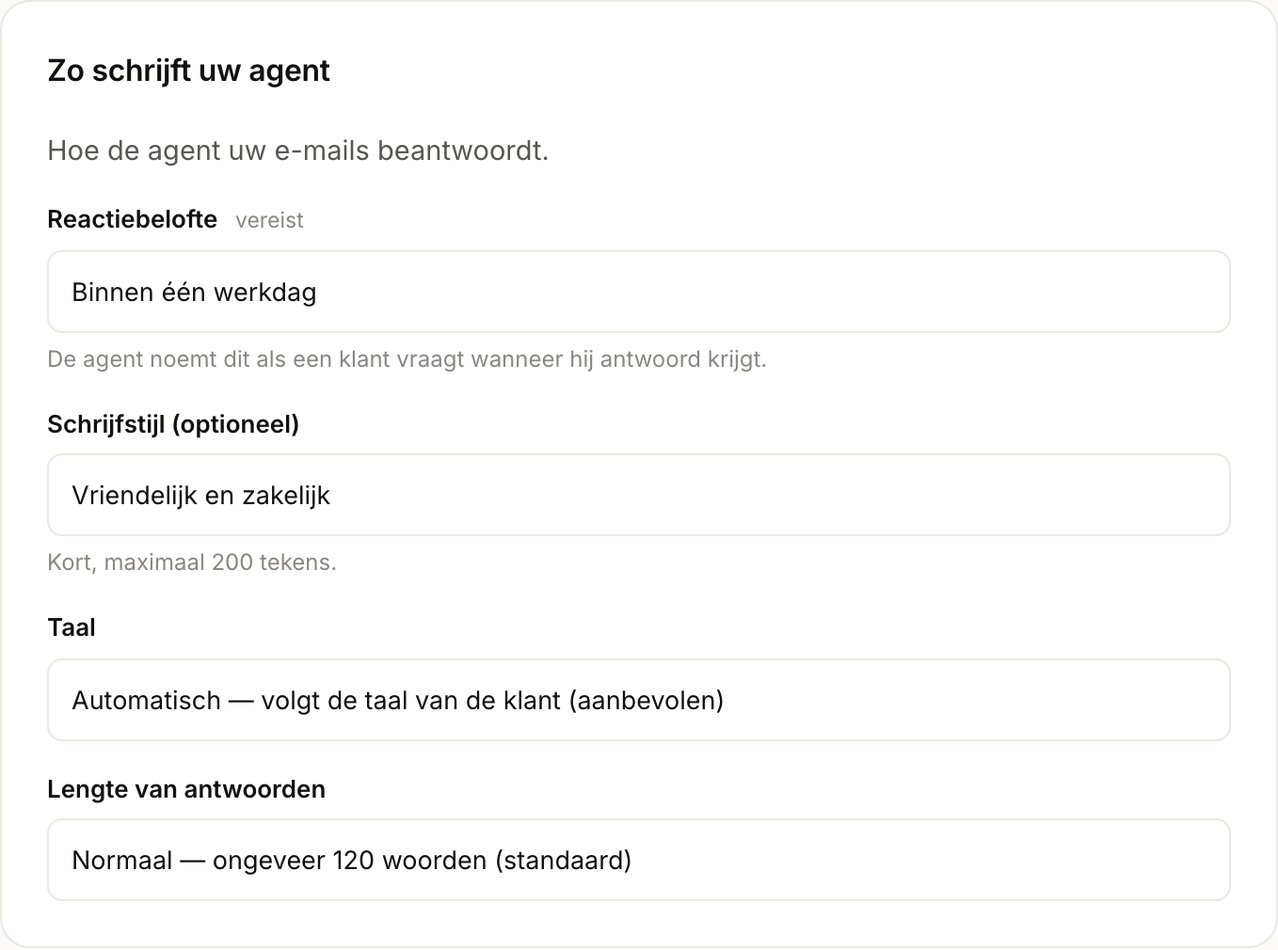
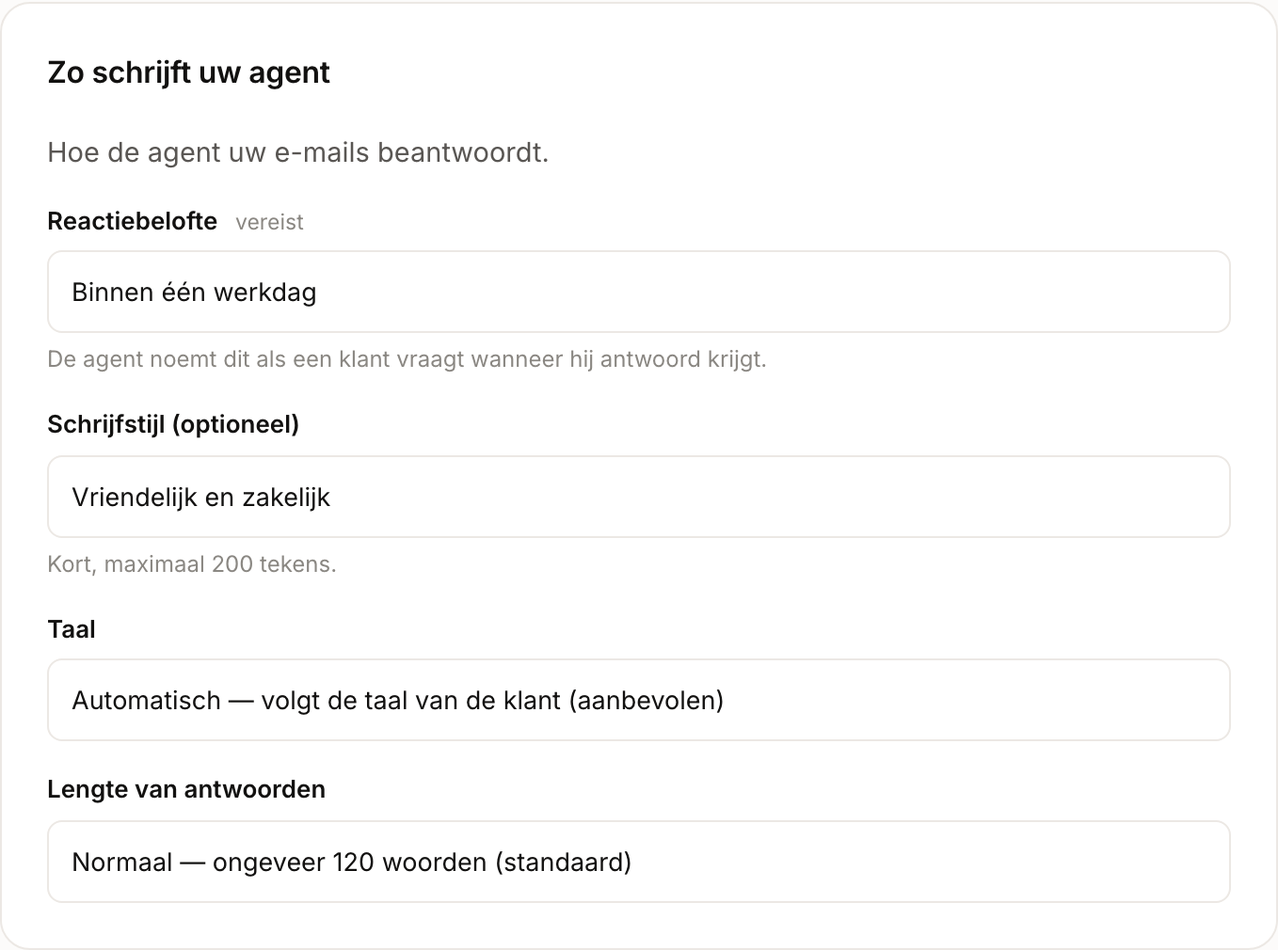
Docs: E-mail volgens de live pagina (instellingen in de setup, Zelflerend als badge), aanspreekvorm, branche, gesprekken
De publicatie van 15:28 beschreef de e-mailinstellingen nog als kaarten op
de pagina E-mail, terwijl 801cf5e (al live) ze naar Setup › Instellingen
had verplaatst. Opnieuw gemeten tegen dashboard 4dcae41:
- Pagina E-mail: Instructies, Deze maand en E-mails, met de twee meldingen
  (mailbox niet meer gekoppeld, categorie komt in aanmerking).
- Zelflerend: label naast Live dat de kaart opent.
- Setup › Instellingen › E-mail: Zo schrijft uw agent, Sorteerregels,
  Automatisch versturen, Urgente meldingen, Geblokkeerde afzenders.
  Ontkoppelen zit in de stap Mailbox koppelen.
- Aanspreekvorm in Begroeting en stem.
- Instructies alleen op de kanaalpagina's.
- Branche vereist, met wat de agent per soort gesprek doet.
- De antwoordtest alleen op Live → E-mail.
- Gesprekken met het menu Periode en tabs.
- E-mailadres voor facturen in het profiel.

Negen schermafbeeldingen opnieuw, met ?v=20261021b.

diff --git a/docs/agent-email-triage.html b/docs/agent-email-triage.html
@@ -172,14 +172,17 @@
 </ul>
 
 <div class="docs-media docs-media--shot">
-<a href="../assets/docs/agent-email-triage-8-schrijven.webp?v=20261021" target="_blank" rel="noopener"><img src="../assets/docs/agent-email-triage-8-schrijven.webp?v=20261021" alt="De kaart Zo schrijft uw agent met Reactiebelofte, Schrijfstijl, Taal en Lengte van antwoorden" width="679" height="505" loading="lazy" /></a>
+<a href="../assets/docs/agent-email-triage-8-schrijven.webp?v=20261021b" target="_blank" rel="noopener"><img src="../assets/docs/agent-email-triage-8-schrijven.webp?v=20261021b" alt="De kaart Zo schrijft uw agent met Reactiebelofte, Schrijfstijl, Taal en Lengte van antwoorden" width="679" height="505" loading="lazy" /></a>
 </div>
-<p class="docs-media-caption">De kaart <strong>Zo schrijft uw agent</strong>. Dezelfde kaart staat later op de pagina <strong>E-mail</strong>.</p>
+<p class="docs-media-caption">De kaart <strong>Zo schrijft uw agent</strong> in de stap <strong>Instellingen</strong>.</p>
 
 <p>
-  Hoe de agent klanten aanspreekt (je of u) en welke onderwerpen hij nooit bespreekt, stelt u in bij
-  <a href="kennis-bedrijfsprofiel#bedrijfsprofiel">Wat uw medewerker weet</a>. Dat geldt voor e-mail en telefoon samen.
-  Onder de kaart staat <strong>Instructies</strong>: vaste afspraken die de agent altijd volgt, bovenop de standaard regels.
+  Of de agent klanten met je of u aanspreekt, kiest u bij <strong>Aanspreekvorm</strong>. Heeft u ook het kanaal
+  Telefoon, dan staat die keuze onder <strong>Telefoon</strong> in de kaart <strong>Begroeting en stem</strong>, anders in
+  deze kaart. Het geldt voor e-mail en telefoon samen, net als de onderwerpen die de agent nooit bespreekt (bij
+  <a href="kennis-bedrijfsprofiel#bedrijfsprofiel">Wat uw medewerker weet</a>). Onder deze kaart staan ook
+  <strong>Sorteerregels</strong>, <strong>Automatisch versturen</strong>, <strong>Urgente meldingen</strong> en
+  <strong>Geblokkeerde afzenders</strong>. Zie <a href="#instellingen">hieronder</a>.
 </p>
 
 <h2 id="testen">Testen op uw eigen e-mail</h2>
@@ -268,11 +271,56 @@
 <li>Elke verwerkte e-mail kost 1 credit. Zie <a href="tegoed-en-credits">Tegoed en credits</a>.</li>
 </ul>
 
+<h2 id="pagina">De pagina E-mail</h2>
+<p>
+  Na het aanzetten ziet u via <strong>Agent</strong> → <strong>E-mail</strong> wat de agent doet. Bovenaan staan
+  <strong>Instructies</strong>: vaste afspraken die de agent altijd volgt, bovenop de standaard regels. Daaronder
+  <strong>Deze maand</strong>, met het aantal verwerkte e-mails, concepten, leads en urgente e-mails, en
+  <strong>E-mails</strong>: per e-mail wat de agent ermee deed, met bovenaan een keuze voor de periode.
+</p>
+<p>
+  Soms staat er bovenaan een melding. <strong>De mailbox is niet meer gekoppeld</strong> betekent dat de agent geen
+  e-mail leest tot u opnieuw koppelt: klik op <strong>Opnieuw koppelen</strong>. Komt een categorie in aanmerking voor
+  automatisch versturen, dan ziet u dat ook hier, met <strong>Bekijken</strong>.
+</p>
+
+<h2 id="zelflerend">Zelflerend</h2>
+<p>
+  Met <strong>Zelflerend</strong> leest Mowi mee met e-mails die u zelf beantwoordt. Daaruit stelt Mowi vragen met
+  antwoorden voor. U beslist wat de agent overneemt.
+</p>
+<p>
+  Op de pagina <strong>E-mail</strong> staat naast <strong>Live</strong> het label <strong>Zelflerend</strong>, met een
+  percentage als het aan staat, of <strong>uit</strong>. Het percentage geeft aan hoe ver uw agent is met zelf leren. Een
+  stip betekent dat er voorstellen op u wachten. Klik op het label: de kaart <strong>Zelflerend</strong> opent bovenaan de
+  pagina, met sinds wanneer het aan staat, hoeveel beantwoorde e-mails Mowi bekeek en hoeveel voorstellen wachten.
+</p>
+<ul>
+<li><strong>Aanzetten</strong>: klik op <strong>Aanzetten</strong> en bevestig in het venster. Mowi kijkt dan eerst naar de
+  afgelopen 30 dagen, daarna elke dag naar nieuwe antwoorden zolang de agent live staat.</li>
+<li><strong>Voorstellen bekijken</strong>: klik bij <strong>voorstellen wachten op u</strong> op <strong>Bekijken</strong>.
+  Neem een voorstel over, pas het aan of sla het over. Wat u overneemt, staat daarna bij uw vragen en antwoorden.</li>
+<li><strong>Uitzetten</strong>: klik op <strong>Uitzetten</strong> en bevestig. Mowi leest dan niet meer mee. Wat u heeft
+  overgenomen, blijft staan.</li>
+</ul>
+
+<div class="docs-media docs-media--shot">
+<a href="../assets/docs/agent-email-triage-9-zelflerend.webp?v=20261021b" target="_blank" rel="noopener"><img src="../assets/docs/agent-email-triage-9-zelflerend.webp?v=20261021b" alt="De pagina E-mail met naast Live het label Zelflerend · 54 procent, en daaronder de geopende kaart Zelflerend met de wachtende voorstellen en de knop Uitzetten" width="959" height="399" loading="lazy" /></a>
+</div>
+<p class="docs-media-caption">Het label <strong>Zelflerend</strong> naast <strong>Live</strong>, en de kaart die het opent.</p>
+
+<div class="docs-callout docs-callout-note">
+<svg width="16" height="16" viewBox="0 0 24 24" fill="none" stroke="currentColor" stroke-width="1.8" stroke-linecap="round" stroke-linejoin="round"><circle cx="12" cy="12" r="8.5"/><path d="M12 11v5"/><circle cx="12" cy="8" r=".4" fill="currentColor"/></svg>
+<p>Mowi leert alleen van e-mails die u zelf beantwoord heeft. Staat er <strong>Nog geen beantwoorde e-mails gevonden</strong>,
+  dan stonden er in uw verzonden e-mail nog geen antwoorden op vragen van klanten.</p>
+</div>
+
 <h2 id="instellingen">Sorteerregels, meldingen en automatisch versturen</h2>
 <p>
-  Na het aanzetten vindt u alle instellingen via <strong>Agent</strong> → <strong>E-mail</strong>. Bovenaan staan
-  <strong>Instructies</strong> en <strong>Deze maand</strong>, met het aantal verwerkte e-mails, concepten, leads en
-  urgente e-mails van deze maand. Daaronder staan <strong>Zo schrijft uw agent</strong> en de kaarten hieronder.
+  De instellingen staan in de setup. Klik op de pagina <strong>E-mail</strong> rechtsboven op <strong>Meer acties</strong>
+  en daarna op <strong>Instellingen</strong>. Onder <strong>E-mail</strong> staan <strong>Zo schrijft uw agent</strong>,
+  <strong>Sorteerregels</strong>, <strong>Automatisch versturen</strong>, <strong>Urgente meldingen</strong> en
+  <strong>Geblokkeerde afzenders</strong>.
 </p>
 
 <h3>Sorteerregels</h3>
@@ -284,7 +332,7 @@
 </p>
 
 <div class="docs-media docs-media--shot">
-<a href="../assets/docs/agent-email-triage-5-sorteerregels.webp?v=20261021" target="_blank" rel="noopener"><img src="../assets/docs/agent-email-triage-5-sorteerregels.webp?v=20261021" alt="De kaart Sorteerregels met de categorieën Leads, Klantvragen, Facturen, Nieuwsbrieven en Overig, elk met een mapnaam" width="959" height="792" loading="lazy" /></a>
+<a href="../assets/docs/agent-email-triage-5-sorteerregels.webp?v=20261021b" target="_blank" rel="noopener"><img src="../assets/docs/agent-email-triage-5-sorteerregels.webp?v=20261021b" alt="De kaart Sorteerregels met de categorieën Leads, Klantvragen, Facturen, Nieuwsbrieven en Overig, elk met een mapnaam" width="679" height="815" loading="lazy" /></a>
 </div>
 <p class="docs-media-caption">De sorteerregels, met per categorie de map.</p>
 
@@ -296,7 +344,7 @@
 </p>
 
 <div class="docs-media docs-media--shot">
-<a href="../assets/docs/agent-email-triage-7-urgent.webp?v=20261021" target="_blank" rel="noopener"><img src="../assets/docs/agent-email-triage-7-urgent.webp?v=20261021" alt="De kaart Urgente meldingen met Urgent — klachten en Urgent — leads, elk met een veld Ontvangers" width="959" height="494" loading="lazy" /></a>
+<a href="../assets/docs/agent-email-triage-7-urgent.webp?v=20261021b" target="_blank" rel="noopener"><img src="../assets/docs/agent-email-triage-7-urgent.webp?v=20261021b" alt="De kaart Urgente meldingen met Urgent — klachten en Urgent — leads, elk met een veld Ontvangers" width="679" height="494" loading="lazy" /></a>
 </div>
 <p class="docs-media-caption">De kaart <strong>Urgente meldingen</strong>.</p>
 
@@ -319,35 +367,9 @@
 </p>
 
 <div class="docs-media docs-media--shot">
-<a href="../assets/docs/agent-email-triage-6-automatisch.webp?v=20261021" target="_blank" rel="noopener"><img src="../assets/docs/agent-email-triage-6-automatisch.webp?v=20261021" alt="De kaart Automatisch versturen: Leads Vergrendeld, Klantvragen Ontgrendeld met de knop Automatisch versturen aanzetten" width="959" height="347" loading="lazy" /></a>
+<a href="../assets/docs/agent-email-triage-6-automatisch.webp?v=20261021b" target="_blank" rel="noopener"><img src="../assets/docs/agent-email-triage-6-automatisch.webp?v=20261021b" alt="De kaart Automatisch versturen: Leads Vergrendeld, Klantvragen Ontgrendeld met de knop Automatisch versturen aanzetten" width="679" height="347" loading="lazy" /></a>
 </div>
 <p class="docs-media-caption">Een categorie begint als <strong>Vergrendeld</strong>. Na het ontgrendelen zet u het versturen zelf aan.</p>
-
-<h3 id="zelflerend">Zelflerend</h3>
-<p>
-  Met <strong>Zelflerend</strong> leest Mowi mee met e-mails die u zelf beantwoordt. Daaruit stelt Mowi vragen met
-  antwoorden voor. U beslist wat de agent overneemt. De kaart laat zien sinds wanneer het aan staat, hoeveel beantwoorde
-  e-mails Mowi bekeek en hoeveel voorstellen op u wachten.
-</p>
-<ul>
-<li><strong>Aanzetten</strong>: klik op <strong>Aanzetten</strong> en bevestig in het venster. Mowi kijkt dan eerst naar de
-  afgelopen 30 dagen, daarna elke dag naar nieuwe antwoorden zolang de agent live staat.</li>
-<li><strong>Voorstellen bekijken</strong>: klik bij <strong>voorstellen wachten op u</strong> op <strong>Bekijken</strong>.
-  Neem een voorstel over, pas het aan of sla het over. Wat u overneemt, staat daarna bij uw vragen en antwoorden.</li>
-<li><strong>Uitzetten</strong>: klik op <strong>Uitzetten</strong> en bevestig. Mowi leest dan niet meer mee. Wat u heeft
-  overgenomen, blijft staan.</li>
-</ul>
-
-<div class="docs-media docs-media--shot">
-<a href="../assets/docs/agent-email-triage-9-zelflerend.webp?v=20261021" target="_blank" rel="noopener"><img src="../assets/docs/agent-email-triage-9-zelflerend.webp?v=20261021" alt="De kaart Zelflerend met het label Aan, sinds wanneer, het aantal bekeken e-mails, de wachtende voorstellen en de knop Uitzetten" width="959" height="309" loading="lazy" /></a>
-</div>
-<p class="docs-media-caption">De kaart <strong>Zelflerend</strong>, met de voorstellen die op u wachten.</p>
-
-<div class="docs-callout docs-callout-note">
-<svg width="16" height="16" viewBox="0 0 24 24" fill="none" stroke="currentColor" stroke-width="1.8" stroke-linecap="round" stroke-linejoin="round"><circle cx="12" cy="12" r="8.5"/><path d="M12 11v5"/><circle cx="12" cy="8" r=".4" fill="currentColor"/></svg>
-<p>Mowi leert alleen van e-mails die u zelf beantwoord heeft. Staat er <strong>Nog geen beantwoorde e-mails gevonden</strong>,
-  dan stonden er in uw verzonden e-mail nog geen antwoorden op vragen van klanten.</p>
-</div>
 
 <h3>Geblokkeerde afzenders</h3>
 <p>
@@ -359,9 +381,9 @@
 <p>
   Klik rechtsboven op de pagina <strong>E-mail</strong> op <strong>Meer acties</strong>, daarna op <strong>Pauzeer</strong>, en
   bevestig met <strong>Pauzeren</strong>. Er worden dan geen e-mails meer verwerkt tot u de agent weer aanzet met
-  <strong>Activeer</strong>, in hetzelfde menu. Onder
-  <strong>Mailboxkoppeling</strong> staat <strong>Koppeling verwijderen</strong>: dat pauzeert de agent totdat u opnieuw
-  verbindt.
+  <strong>Activeer</strong>, in hetzelfde menu. De mailbox ontkoppelt u in de setupstap <strong>Mailbox koppelen</strong>:
+  onder <strong>Mailboxkoppeling</strong> staat <strong>Koppeling verwijderen</strong>. Dat pauzeert de agent totdat u
+  opnieuw verbindt.
 </p>
 
 <h2>Problemen oplossen</h2>

diff --git a/docs/kennis-bedrijfsprofiel.html b/docs/kennis-bedrijfsprofiel.html
@@ -99,22 +99,23 @@
 </p>
 
 <div class="docs-media docs-media--shot">
-<a href="../assets/docs/kennis-bedrijfsprofiel-2-profiel.webp?v=20261021" target="_blank" rel="noopener"><img src="../assets/docs/kennis-bedrijfsprofiel-2-profiel.webp?v=20261021" alt="De kaart Bedrijfsprofiel met Branche, Diensten, Openingstijden, Werkgebied, Wat u niet aanbiedt, de aanspreekvorm en de onderwerpen die uw medewerker nooit bespreekt" width="679" height="1246" loading="lazy" /></a>
+<a href="../assets/docs/kennis-bedrijfsprofiel-2-profiel.webp?v=20261021b" target="_blank" rel="noopener"><img src="../assets/docs/kennis-bedrijfsprofiel-2-profiel.webp?v=20261021b" alt="De kaart Bedrijfsprofiel met Branche en wat de agent per soort gesprek doet, Diensten, Openingstijden, Werkgebied, Wat u niet aanbiedt en de onderwerpen die uw medewerker nooit bespreekt" width="679" height="1364" loading="lazy" /></a>
 </div>
-<p class="docs-media-caption">Het bedrijfsprofiel. <strong>Diensten</strong> is vereist.</p>
+<p class="docs-media-caption">Het bedrijfsprofiel. <strong>Branche</strong> en <strong>Diensten</strong> zijn vereist.</p>
 
 <ul>
-<li><strong>Branche</strong>: Mowi stemt de agent hierop af, bijvoorbeeld wat hij aan de telefoon vraagt. Wat u zelf invult, blijft staan.</li>
+<li><strong>Branche</strong> (vereist): Mowi stemt de agent hierop af, bijvoorbeeld wat hij aan de telefoon vraagt. Na de
+  websitescan staat er vaak al een branche klaar. Kies zo nodig een andere, of <strong>Andere branche</strong>. Onder
+  <strong>Aan de telefoon</strong> ziet u per soort gesprek wat de agent doet. Wat u zelf invult, blijft staan.</li>
 <li><strong>Diensten</strong> (vereist): wat u levert, in een paar zinnen. Zo weet de agent waar hij wel en niet over kan antwoorden.</li>
 <li><strong>Openingstijden</strong>: één regel per dag of dagdeel. Daarmee weet de agent wanneer hij een terugbelverzoek aanneemt.</li>
 <li><strong>Werkgebied</strong>: alleen nodig als u op locatie werkt. Eén gebied per regel.</li>
 <li><strong>Wat u niet aanbiedt</strong>: één dienst per regel. Zo belooft de agent geen werk dat u niet doet.</li>
 </ul>
 <p>
-  Onder <strong>AANSPREEKVORM EN GRENZEN</strong> kiest u bij <strong>Aanspreekvorm</strong> voor <strong>Formeel ("u")</strong>
-  of <strong>Informeel ("je")</strong>. Zo spreekt uw medewerker klanten aan, aan de telefoon en in e-mails. Bij
-  <strong>Onderwerpen die uw medewerker nooit bespreekt</strong> zet u één onderwerp per regel, bijvoorbeeld prijsafspraken of
-  kortingen.
+  Bij <strong>Onderwerpen die uw medewerker nooit bespreekt</strong> zet u één onderwerp per regel, bijvoorbeeld
+  prijsafspraken of kortingen. Dat geldt aan de telefoon en in e-mails. Of uw medewerker klanten met je of u aanspreekt,
+  kiest u in de stap <strong>Instellingen</strong>, bij <strong>Aanspreekvorm</strong>.
 </p>
 <p>
   Hoe de agent e-mails schrijft, met de reactiebelofte, de schrijfstijl, de taal en de lengte, stelt u in bij het kanaal
@@ -160,9 +161,10 @@
 
 <h2 id="testen">Testen of een antwoord klopt</h2>
 <p>
-  Typ onder <strong>Stel uw agent een vraag</strong> een vraag zoals een klant hem zou stellen en klik op
-  <strong>Test</strong>. U ziet meteen wat de agent zou antwoorden. Er wordt niets verstuurd. Voor de telefoon test u het best
-  met een gesprek in de browser. Zie <a href="telefoon-instellen#testen">Telefoon instellen</a>.
+  Heeft u het kanaal E-mail? Typ dan in de setup onder <strong>Live</strong> → <strong>E-mail</strong>, bij
+  <strong>Stel uw agent een vraag</strong>, wat een klant zou vragen en klik op <strong>Test</strong>. U ziet meteen het
+  concept dat de agent zou schrijven. Er wordt niets verstuurd. Voor de telefoon test u met een gesprek in de browser.
+  Zie <a href="telefoon-instellen#testen">Telefoon instellen</a>.
 </p>
 
 <h2 id="offertes">Offerteaanvragen</h2>

diff --git a/docs/telefoon-gesprekken.html b/docs/telefoon-gesprekken.html
@@ -63,9 +63,9 @@
 <div class="docs-step-body">
 <h3>Open Telefoon</h3>
 <p>Klik in de zijbalk op <strong>Agent</strong> en daarna op <strong>Telefoon</strong>.</p>
-<p class="docs-muted">U ziet nu bovenaan uw <strong>Instructies</strong> in één regel, met <strong>Bewerken</strong>.
-  Daaronder staat <strong>Deze maand</strong>, met het aantal gesprekken, minuten, vastgelegde leads en doorverbonden
-  gesprekken, en daarna de kaart <strong>Gesprekken</strong>.</p>
+<p class="docs-muted">U ziet nu bovenaan uw <strong>Instructies</strong>. Daaronder staat <strong>Deze maand</strong>,
+  met het aantal gesprekken, minuten, vastgelegde leads en doorverbonden gesprekken, en daarna de kaart
+  <strong>Gesprekken</strong>.</p>
 </div>
 </div>
 </div>
@@ -86,7 +86,7 @@
 </ul>
 
 <div class="docs-media docs-media--shot">
-<a href="../assets/docs/telefoon-gesprekken-2-lijst.webp?v=20261021" target="_blank" rel="noopener"><img src="../assets/docs/telefoon-gesprekken-2-lijst.webp?v=20261021" alt="De kaart Gesprekken met de periodes, de labels met hun aantal en drie gesprekken met label, duur, beller, Te doen en samenvatting" width="959" height="670" loading="lazy" /></a>
+<a href="../assets/docs/telefoon-gesprekken-2-lijst.webp?v=20261021b" target="_blank" rel="noopener"><img src="../assets/docs/telefoon-gesprekken-2-lijst.webp?v=20261021b" alt="De kaart Gesprekken met de knop Periode, de labels met hun aantal en drie gesprekken met label, duur, beller, Te doen en samenvatting" width="959" height="607" loading="lazy" /></a>
 </div>
 <p class="docs-media-caption">Drie gesprekken in de lijst. Het tweede vraagt aandacht.</p>
 
@@ -97,10 +97,11 @@
 
 <h3>Filteren</h3>
 <p>
-  Kies bovenaan de kaart <strong>Gesprekken</strong> voor <strong>Alles</strong>, <strong>Vandaag</strong>,
-  <strong>7 dagen</strong> of <strong>30 dagen</strong>. Daaronder staan de labels die in die periode voorkomen, met het
-  aantal gesprekken erbij. Klik bijvoorbeeld op <strong>Terugbelverzoek</strong> om alleen de gesprekken te zien waar u nog
-  iets mee moet. <strong>Vraagt aandacht</strong> staat altijd vooraan. Met <strong>Wis filters</strong> ziet u weer alles.
+  Klik rechtsboven in de kaart <strong>Gesprekken</strong> op <strong>Periode</strong> en kies <strong>Alles</strong>,
+  <strong>Vandaag</strong>, <strong>7 dagen</strong> of <strong>30 dagen</strong>. Daaronder staan de labels die in die
+  periode voorkomen, met het aantal gesprekken erbij. Klik bijvoorbeeld op <strong>Terugbelverzoek</strong> om alleen de
+  gesprekken te zien waar u nog iets mee moet. <strong>Vraagt aandacht</strong> staat altijd vooraan, en
+  <strong>Alles</strong> toont weer elk gesprek.
 </p>
 <p>
   Uw eigen testgesprekken in de browser staan onder <strong>Browsertest</strong>. Die tellen niet mee in de cijfers.
@@ -141,7 +142,7 @@
 </div>
 
 <div class="docs-media docs-media--shot">
-<a href="../assets/docs/telefoon-gesprekken-3-meer-acties.webp?v=20261021" target="_blank" rel="noopener"><img src="../assets/docs/telefoon-gesprekken-3-meer-acties.webp?v=20261021" alt="Het menu Meer acties op de pagina Telefoon met Instellingen en Pauzeer" width="880" height="250" loading="lazy" /></a>
+<a href="../assets/docs/telefoon-gesprekken-3-meer-acties.webp?v=20261021b" target="_blank" rel="noopener"><img src="../assets/docs/telefoon-gesprekken-3-meer-acties.webp?v=20261021b" alt="Het menu Meer acties op de pagina Telefoon met Instellingen en Pauzeer" width="880" height="250" loading="lazy" /></a>
 </div>
 <p class="docs-media-caption">Het menu <strong>Meer acties</strong>.</p>
 

diff --git a/docs/telefoon-instellen.html b/docs/telefoon-instellen.html
@@ -193,16 +193,16 @@
 <div class="docs-step">
 <span class="docs-step-num">3</span>
 <div class="docs-step-body">
-<h3>Controleer de stem</h3>
-<p>Onder <strong>Stem</strong> staat de stem die u koos. Klik op <strong>Wijzigen</strong> om een andere te kiezen.</p>
-<p class="docs-muted">Of de agent bellers met je of u aanspreekt, stelt u in bij <a href="kennis-bedrijfsprofiel#bedrijfsprofiel">Wat
-  uw medewerker weet</a>, onder <strong>Aanspreekvorm</strong>.</p>
+<h3>Kies de aanspreekvorm en controleer de stem</h3>
+<p>Kies bij <strong>Aanspreekvorm</strong> voor <strong>Formeel ("u")</strong> of <strong>Informeel ("je")</strong>. Onder
+  <strong>Stem</strong> staat de stem die u koos. Klik op <strong>Wijzigen</strong> om een andere te kiezen.</p>
+<p class="docs-muted">De aanspreekvorm geldt aan de telefoon en in e-mails.</p>
 </div>
 </div>
 </div>
 
 <div class="docs-media docs-media--shot">
-<a href="../assets/docs/telefoon-instellen-3-begroeting.webp?v=20261021" target="_blank" rel="noopener"><img src="../assets/docs/telefoon-instellen-3-begroeting.webp?v=20261021" alt="De kaart Begroeting en stem: de vaste begroeting, het veld Wat de agent daarna zegt en de gekozen stem" width="679" height="421" loading="lazy" /></a>
+<a href="../assets/docs/telefoon-instellen-3-begroeting.webp?v=20261021b" target="_blank" rel="noopener"><img src="../assets/docs/telefoon-instellen-3-begroeting.webp?v=20261021b" alt="De kaart Begroeting en stem: de vaste begroeting, het veld Wat de agent daarna zegt, de aanspreekvorm en de gekozen stem" width="679" height="529" loading="lazy" /></a>
 </div>
 <p class="docs-media-caption">De begroeting. De eerste zin is vast en kunt u niet wijzigen.</p>
 
@@ -286,10 +286,10 @@
 <p class="docs-media-caption">Meldingen: per e-mail na elk gesprek, of alleen in het dashboard.</p>
 
 <p>
-  Onder <strong>Instructies</strong> legt u vaste afspraken vast die de agent altijd volgt, bovenop de standaard
-  regels. Zet hier geen wachtwoorden of andere geheime gegevens in. Heeft u ook het kanaal E-mail, dan staan onder
-  <strong>E-mail</strong> op dezelfde stap de instellingen voor uw e-mails. Zie
-  <a href="agent-email-triage#schrijven">E-mail instellen</a>.
+  Heeft u ook het kanaal E-mail, dan staan onder <strong>E-mail</strong> op dezelfde stap de instellingen voor uw
+  e-mails. Zie <a href="agent-email-triage#schrijven">E-mail instellen</a>. Vaste afspraken die de agent altijd volgt,
+  legt u vast onder <strong>Instructies</strong>, bovenaan de pagina <strong>Telefoon</strong>. Zet daar geen
+  wachtwoorden of andere geheime gegevens in.
 </p>
 
 <h2 id="testen">Uw agent testen in de browser</h2>
@@ -359,7 +359,8 @@
 <h3>De agent zegt iets wat niet klopt</h3>
 <p>
   Uw agent antwoordt uit uw kennis. Pas de feiten aan bij <a href="kennis-bedrijfsprofiel">Wat uw agent weet</a>,
-  of leg een vaste afspraak vast onder <strong>Instructies</strong>. Test daarna opnieuw.
+  of leg een vaste afspraak vast onder <strong>Instructies</strong>, bovenaan de pagina <strong>Telefoon</strong>. Test
+  daarna opnieuw.
 </p>
 
 <h2>Volgende stappen</h2>

diff --git a/docs/eerste-agent-instellen.html b/docs/eerste-agent-instellen.html
@@ -87,12 +87,13 @@
 
 <h3>Instellen</h3>
 <ul>
-<li><strong>Wat uw medewerker weet</strong>: controleer wat de scan vond, vul <strong>Diensten</strong> in, kies de
-  <strong>Aanspreekvorm</strong> en zorg voor minimaal drie vragen met een antwoord. Zie
+<li><strong>Wat uw medewerker weet</strong>: controleer wat de scan vond, kies de <strong>Branche</strong>, vul
+  <strong>Diensten</strong> in en zorg voor minimaal drie vragen met een antwoord. Zie
   <a href="kennis-bedrijfsprofiel">Wat uw agent weet</a>.</li>
-<li><strong>Instellingen</strong>: voor Telefoon de begroeting en stem, wanneer de agent doorverbindt, wat hij buiten
-  openingstijden doet en hoe u meldingen krijgt. Voor E-mail de <strong>Reactiebelofte</strong> en hoe de agent schrijft.
-  Zie <a href="telefoon-instellen#instellingen">De instellingen nalopen</a> en
+<li><strong>Instellingen</strong>: voor Telefoon de begroeting, de aanspreekvorm en de stem, wanneer de agent doorverbindt,
+  wat hij buiten openingstijden doet en hoe u meldingen krijgt. Voor E-mail de <strong>Reactiebelofte</strong>, hoe de agent
+  schrijft, de sorteerregels en wie urgente meldingen krijgt. Zie
+  <a href="telefoon-instellen#instellingen">De instellingen nalopen</a> en
   <a href="agent-email-triage#schrijven">Instellen hoe de agent schrijft</a>.</li>
 </ul>
 

diff --git a/docs/faq-koppeling-werkt-niet.html b/docs/faq-koppeling-werkt-niet.html
@@ -93,9 +93,10 @@
 
 <h2>De mailbox</h2>
 <p>
-  Ga naar <strong>Agent</strong> → <strong>E-mail</strong> en kijk onder <strong>Mailboxkoppeling</strong>. Heeft u bij Microsoft of Google
-  de toegang van Mowi ingetrokken, of uw app-wachtwoord vervangen? Koppel de mailbox dan opnieuw via de setupstap
-  <strong>Mailbox koppelen</strong>. Zie <a href="agent-email-triage#mailbox">Uw mailbox koppelen</a>.
+  Ga naar <strong>Agent</strong> → <strong>E-mail</strong>. Staat er bovenaan <strong>De mailbox is niet meer gekoppeld</strong>,
+  of heeft u bij Microsoft of Google de toegang van Mowi ingetrokken of uw app-wachtwoord vervangen? Koppel de mailbox dan
+  opnieuw via <strong>Opnieuw koppelen</strong> of de setupstap <strong>Mailbox koppelen</strong>. Zie
+  <a href="agent-email-triage#mailbox">Uw mailbox koppelen</a>.
 </p>
 
 <h2>Per systeem</h2>

diff --git a/docs/faq-agent-voert-geen-taken-uit.html b/docs/faq-agent-voert-geen-taken-uit.html
@@ -127,8 +127,9 @@
 <span class="docs-step-num">1</span>
 <div class="docs-step-body">
 <h3>Controleer de mailboxkoppeling</h3>
-<p>Klik in de zijbalk op <strong>Agent</strong> en daarna op <strong>E-mail</strong>. Kijk onder <strong>Mailboxkoppeling</strong>.</p>
-<p class="docs-muted">Is de koppeling verwijderd, dan staat de agent op pauze tot u opnieuw verbindt. Zie
+<p>Klik in de zijbalk op <strong>Agent</strong> en daarna op <strong>E-mail</strong>. Staat er bovenaan <strong>De mailbox is
+  niet meer gekoppeld</strong>? Klik dan op <strong>Opnieuw koppelen</strong>.</p>
+<p class="docs-muted">Zonder gekoppelde mailbox leest de agent geen e-mail. Zie
   <a href="agent-email-triage#mailbox">Uw mailbox koppelen</a>.</p>
 </div>
 </div>

diff --git a/docs/pakketten-en-abonnement.html b/docs/pakketten-en-abonnement.html
@@ -138,6 +138,12 @@
   <strong>Facturen</strong>, met nummer, datum en bedrag. Klik op <strong>Download</strong> voor de factuur. Het bedrag op de factuur
   is inclusief btw.
 </p>
+<p>
+  Facturen en betaalberichten gaan naar het e-mailadres van uw account. Wilt u ze op een ander adres ontvangen, bijvoorbeeld
+  bij uw boekhouding? Klik linksboven op uw initialen en daarna op <strong>Profiel</strong>. Vul het adres in bij
+  <strong>E-mailadres voor facturen</strong> en klik op <strong>Opslaan</strong>. Laat u het leeg, dan gaan ze naar uw
+  e-mailadres erboven.
+</p>
 
 <h2 id="opzeggen">Opzeggen</h2>
 

diff --git a/CLAUDE.md b/CLAUDE.md
@@ -614,6 +614,22 @@ applied to all 16, and `test.html` is the reliable copy-paste source.
   `#zelflerend`. **Ship the docs together with that dashboard branch**: the panel screenshots and the
   Zelflerend/auto-send sections describe the branch, not the dashboard that is live before it.
 
+- **Third pass, same evening (correction):** the 15:28 publish described the E-mail settings as cards on the E-mail page,
+  but `801cf5e` (live before it) had moved them to Setup › Instellingen. The docs text had not been re-checked after the
+  last rebase. Re-measured against dashboard `4dcae41`:
+  - the E-mail page holds Instructies, Deze maand and E-mails, plus two conditional notices;
+  - Zelflerend is a badge beside Live that opens its card;
+  - Setup › Instellingen › E-mail holds Zo schrijft uw agent, Sorteerregels, Automatisch versturen, Urgente meldingen
+    and Geblokkeerde afzenders;
+  - Aanspreekvorm sits in Begroeting en stem;
+  - Instructies are only on the channel pages;
+  - Branche is required, with the route preview;
+  - the answer test is only on Live → E-mail;
+  - invoice address: Profiel → E-mailadres voor facturen.
+
+  Changed screenshots carry `?v=20261021b`. **Lesson: after any rebase onto another session's work, re-read the
+  documented screens in a fresh render before publishing docs.**
+
 ### Precision rules that produced this content — apply to every future edit
 - **Never invent a click-path.** Steps inside our own dashboard are grounded by reading the
   actual Mowi Dashboard Laravel codebase (`c:\Users\SalP1\Desktop\Mowi Dashboard` —
